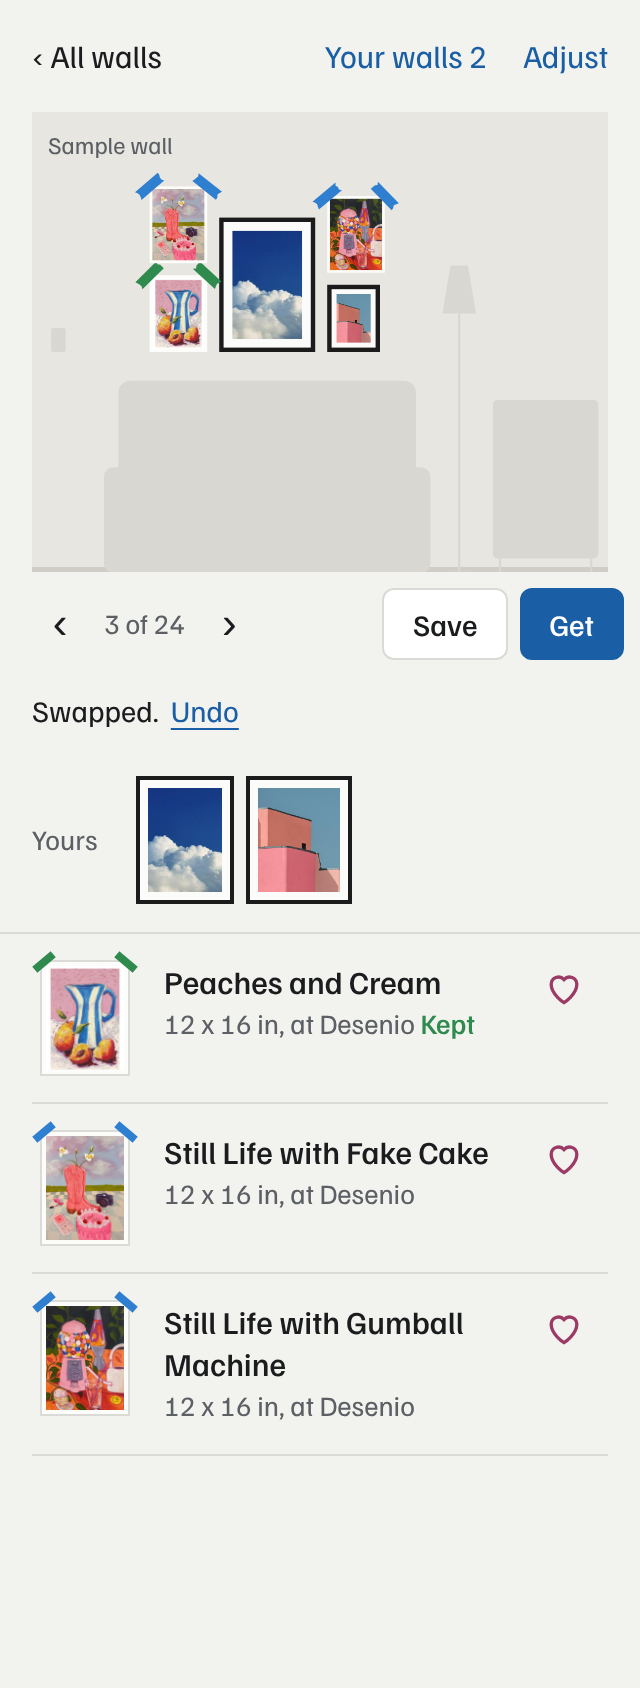
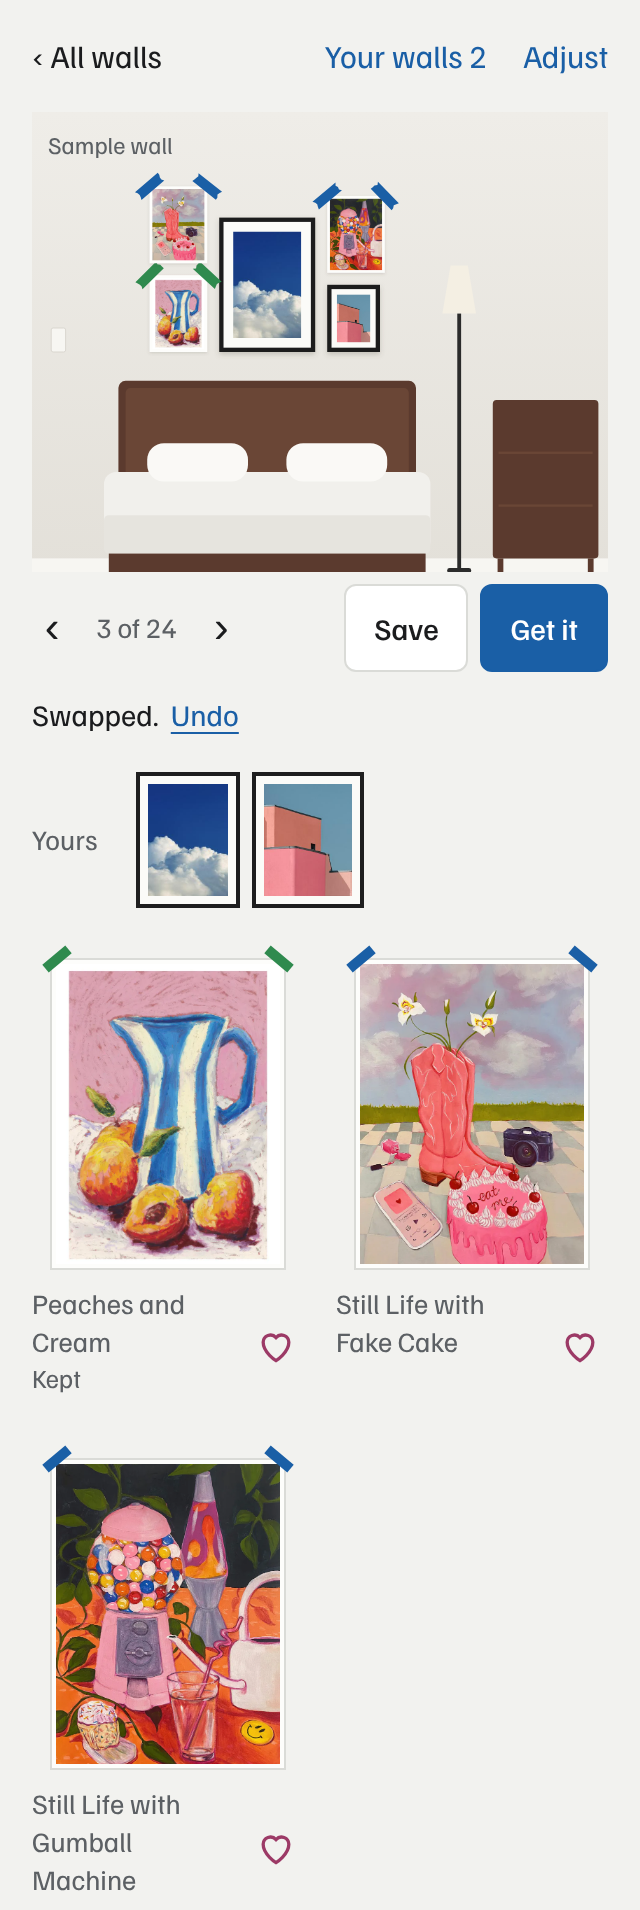
v4 step 4: taped up in the finished room; art grid over titles; fixes from the section 10 pass; references redone; FEEDBACK 75
Claude-Session: https://claude.ai/code/session_01VoA4So5M9yfUtFu9HVj1Qd

diff --git a/design/directions/build.py b/design/directions/build.py
@@ -98,20 +98,23 @@ def furniture(style):
 
 # ---------- the three drawings ----------
 def draw_tape(wall, px_per_in, seed=3):
-    """D1: new prints taped up unframed with readable corner tabs; yours framed."""
+    """1 + 3: the finished room, yours framed with a soft shadow, new prints taped up unframed."""
     rnd = random.Random(seed)
-    s = [f'<rect width="{WW}" height="{WH}" fill="var(--wall)"/>',
-         f'<rect y="{WH - 1.2}" width="{WW}" height="1.2" fill="var(--floor)"/>', furn_flat()]
+    s = ['<defs><linearGradient id="light" x1="0" y1="0" x2="0" y2="1"><stop offset="0" stop-color="var(--wall-hi)"/><stop offset="1" stop-color="var(--wall-lo)"/></linearGradient>'
+         '<filter id="sh" x="-20%" y="-20%" width="140%" height="150%"><feDropShadow dx="0" dy="0.5" stdDeviation="0.5" flood-color="#5B5245" flood-opacity="0.26"/></filter>'
+         '<filter id="shp" x="-20%" y="-20%" width="140%" height="150%"><feDropShadow dx="0" dy="0.25" stdDeviation="0.3" flood-color="#5B5245" flood-opacity="0.18"/></filter></defs>',
+         f'<rect width="{WW}" height="{WH}" fill="url(#light)"/>',
+         f'<rect y="{WH - 3}" width="{WW}" height="3" fill="var(--base)"/>', furniture('room')]
     tabT = max(1.41, 5 / px_per_in); tabL = max(3.2, 15 / px_per_in)  # the real roll's width, never under 5 px on screen
     for i, p in enumerate(wall['pieces']):
         x, y, w, h = p['x'], top(p), p['w'], p['h']
         if p['own']:
-            f = max(0.9, 2.2 / px_per_in)
-            s.append(f'<rect x="{x}" y="{y}" width="{w}" height="{h}" fill="var(--frame)"/>')
-            s.append(f'<rect x="{x + f}" y="{y + f}" width="{w - 2 * f}" height="{h - 2 * f}" fill="var(--mat)"/>')
-            s.append(image(p, f + min(w, h) * 0.09, f'c{i}'))
+            fw = 0.9
+            s.append(f'<rect x="{x}" y="{y}" width="{w}" height="{h}" fill="var(--frame)" filter="url(#sh)"/>')
+            s.append(f'<rect x="{x + fw}" y="{y + fw}" width="{w - 2 * fw}" height="{h - 2 * fw}" fill="var(--mat)"/>')
+            s.append(image(p, fw + min(w, h) * 0.1, f'c{i}'))
         else:
-            s.append(f'<rect x="{x}" y="{y}" width="{w}" height="{h}" fill="var(--paper)"/>')
+            s.append(f'<rect x="{x}" y="{y}" width="{w}" height="{h}" fill="var(--paper)" filter="url(#shp)"/>')
             s.append(image(p, min(w, h) * 0.045, f'c{i}'))
             col = 'var(--tape-keep)' if p.get('kept') else 'var(--tape-strip)'
             for cx, ang in ((x, -42 + rnd.uniform(-5, 5)), (x + w, 42 + rnd.uniform(-5, 5))):
@@ -178,8 +181,8 @@ DIRS = {
  'd1': dict(name='Taped up', fonts='https://fonts.googleapis.com/css2?family=Familjen+Grotesk:wght@400;500;600&display=swap',
     family='"Familjen Grotesk", -apple-system, sans-serif', draw=draw_tape,
     tokens='--canvas:#F2F2EF;--surface:#FFFFFF;--ink:#1B1C1E;--pencil:#5C6064;--hairline:#DADBD7;--action:#1A5FA6;--on-action:#FFFFFF;'
-           '--wall:#E7E6E1;--floor:#CFCDC6;--furn-line:#9EA2A5;--furn-fill:#D9D7D1;--frame:#1B1B1B;--mat:#FBFBF9;--paper:#FCFCFA;'
-           '--tape-strip:#2F7FD0;--tape-keep:#2F8A4E;--marker:#9C3A66;',
+           '--wall-hi:#EFEDE8;--wall-lo:#E3E0D9;--base:#F7F6F2;--wood:#5B3A2E;--wood-2:#6A4636;--linen:#F1F0EC;--linen-2:#E6E4DE;--pillow:#FAF9F6;--shade:#F4EFE3;--metal:#2B2B2B;--frame:#1E1E1E;--mat:#FBFBF8;--paper:#FDFDFB;'
+           '--tape-strip:#1A5FA6;--tape-keep:#2F8A4E;--marker:#9C3A66;',
     word='<span class="wm"><span class="tab" aria-hidden="true"></span>walldrobe</span>'),
  'd2': dict(name='Hanging plan', fonts='https://fonts.googleapis.com/css2?family=Schibsted+Grotesk:wght@400;500;600&display=swap',
     family='"Schibsted Grotesk", -apple-system, sans-serif', draw=draw_plan,
@@ -209,13 +212,13 @@ body{font-family:%(family)s;color:var(--ink);-webkit-font-smoothing:antialiased;
 .count{color:var(--pencil);font-size:14px;font-variant-numeric:tabular-nums}
 .why{font-size:20px;line-height:26px;font-weight:500;margin:6px 16px 4px;text-wrap:balance;letter-spacing:-0.005em}
 .cost{color:var(--pencil);font-size:14px;margin:0 16px;font-variant-numeric:tabular-nums}
-.feed .item{margin-bottom:28px}
+.feed .item{margin-bottom:20px}
 .feed .count{margin:12px 16px 0}
-.pager{display:flex;align-items:center;margin:4px 8px 0 8px}
+.pager{display:flex;align-items:center;margin:6px 16px 0 4px}
 .pager .nav{width:44px;height:44px;border:0;background:none;color:var(--ink);font-size:22px}
 .pager .nav[disabled]{color:var(--hairline)}
 .pager .acts{margin-left:auto;display:flex;gap:6px;align-items:center}
-.small{font:inherit;font-size:15px;font-weight:500;height:36px;margin:4px 0;padding:0 14px;border-radius:6px;border:1px solid var(--hairline);background:var(--surface);color:var(--ink)}
+.small{font:inherit;font-size:15px;font-weight:500;height:44px;margin:0;padding:0 14px;border-radius:6px;border:1px solid var(--hairline);background:var(--surface);color:var(--ink)}
 .small.primary{background:var(--action);border-color:var(--action);color:var(--on-action)}
 .undo{margin:10px 16px 0;font-size:15px;line-height:22px}
 .undo button{font:inherit;color:var(--action);background:none;border:0;padding:0 0 0 6px;text-decoration:underline;text-underline-offset:3px;position:relative}
@@ -237,9 +240,19 @@ ul.rows{list-style:none;margin:16px 0 0;padding:0 16px;border-top:1px solid var(
 """
 
 EXTRA = {
- 'd1': """.wm{position:relative;padding-left:2px}.tab{position:absolute;left:-3px;top:3px;width:15px;height:5px;background:var(--tape-strip);transform:rotate(-38deg)}
+ 'd1': """ul.tiles{list-style:none;margin:20px 16px 0;padding:0;display:grid;grid-template-columns:repeat(auto-fill,minmax(132px,1fr));gap:24px 16px}
+.tile{position:relative;display:flex;flex-direction:column;align-items:center}
+.tile .art{height:156px;display:flex;align-items:flex-end;justify-content:center;padding-top:6px}
+.tile .cap{align-self:stretch;margin-top:8px;padding-right:40px}
+.tile .name{font-size:14px;line-height:19px;color:var(--pencil);display:block;font-weight:400;overflow-wrap:anywhere}
+.tile .meta{font-size:13px;line-height:18px;color:var(--pencil);display:block;font-variant-numeric:tabular-nums}
+.tile .heart{position:absolute;right:-8px;bottom:-6px}
+.yours{margin-top:20px}
+.thumbnew{box-shadow:0 1px 2px rgba(91,82,69,.25)}
+.thumbown{box-shadow:0 0 0 2px var(--frame),0 1px 3px rgba(91,82,69,.3)}
+.wm{position:relative;padding-left:2px}.tab{position:absolute;left:-3px;top:3px;width:15px;height:5px;background:var(--tape-strip);transform:rotate(-38deg)}
 .thumbnew{position:relative;background:var(--paper);padding:2px;box-shadow:0 0 0 1px var(--hairline)}
-.thumbnew::before,.thumbnew::after{content:"";position:absolute;top:-2px;width:12px;height:4px;background:var(--tape-strip)}
+.thumbnew::before,.thumbnew::after{content:"";position:absolute;top:-3px;width:15px;height:5px;background:var(--tape-strip)}
 .thumbnew::before{left:-5px;transform:rotate(-40deg)}.thumbnew::after{right:-5px;transform:rotate(40deg)}
 .thumbnew.k::before,.thumbnew.k::after{background:var(--tape-keep)}
 .thumbown{padding:4px;background:var(--mat);box-shadow:0 0 0 2px var(--frame)}""",
@@ -255,13 +268,13 @@ EXTRA = {
 .thumbnew,.thumbown{padding:3px;background:var(--mat);box-shadow:0 0 0 1.5px var(--frame),0 1px 2px rgba(60,50,40,.25)}""",
 }
 
-def thumb(p, d):
+def thumb(p, d, size=52):
     ar = p['w'] / p['h']
-    hgt = 52 if ar < 1 else 52 / ar
+    hgt = size if ar < 1 else size / ar
     wid = hgt * ar
     cls = 'thumbown' if p['own'] else ('thumbnew k' if p.get('kept') else 'thumbnew')
     return (f'<span class="{cls}" style="display:inline-block;width:{wid:.0f}px;height:{hgt:.0f}px">'
-            f'<img src="{esc(p["img"])}" alt="" style="width:100%;height:100%;object-fit:cover;display:block"></span>')
+            f'<img src="{esc(p["img"])}" alt="{esc(p["title"])}" style="width:100%;height:100%;object-fit:cover;display:block"></span>')
 
 def svg(dkey, wall, px_per_in):
     return (f'<div class="dwrap"><svg viewBox="0 0 {WW} {WH}" role="img" aria-label="Sample wall">{DIRS[dkey]["draw"](wall, px_per_in)}</svg><span class="sample">Sample wall</span></div>')
@@ -282,8 +295,8 @@ def feed(dkey, width):
         return f'{money(sum(p["price"] for p in new))} for {len(new)} new print{"s" if len(new) > 1 else ""}'
     body = (f'<header class="bar">{DIRS[dkey]["word"]}<span class="r"><a href="#">Your walls 2</a><button>Adjust</button></span></header>'
             f'<main class="feed"><div class="item"><div class="draw">{svg(dkey, w1, ppi)}</div>'
-            f'<p class="count">1 of 24</p></div>'
-            f'<div class="item"><div class="draw">{svg(dkey, w2, ppi)}</div><p class="count">2 of 24</p></div></main>')
+            f'</div>'
+            f'<div class="item"><div class="draw">{svg(dkey, w2, ppi)}</div></div></main>')
     return page(dkey, body)
 
 def wallpage(dkey, width):
@@ -294,19 +307,18 @@ def wallpage(dkey, width):
     total = sum(p['price'] for p in new)
     reasons = {'Still Life with Fake Cake': 'Its red repeats in two other pieces.'}
     rows = ''.join(
-        f'<li class="row"><span class="t">{thumb(p, dkey)}</span><span class="txt"><span class="name">{esc(p["title"])}</span>'
-        f'<span class="meta">{inch(p["w"])} x {inch(p["h"])} in, at {esc(p["shop"])}{" <span class=kept>Kept</span>" if p.get("kept") else ""}</span>'
-        +
-        f'</span><button class="heart" aria-label="Favorite">{HEART}</button></li>' for p in new)
-    yours = ''.join(thumb(p, dkey) for p in own)
+        f'<li class="tile"><span class="art">{thumb(p, dkey, 150)}</span>'
+        f'<span class="cap"><span class="name">{esc(p["title"])}</span>{'<span class="meta">Kept</span>' if p.get("kept") else ''}</span>'
+        f'<button class="heart" aria-label="Favorite {esc(p['title'])}">{HEART}</button></li>' for p in new)
+    yours = ''.join(thumb(p, dkey, 56) for p in own)
     body = (f'<header class="bar"><a class="back" href="#">‹ All walls</a><span class="r"><a href="#">Your walls 2</a><button>Adjust</button></span></header>'
             f'<main><div class="draw">{svg(dkey, w, ppi)}</div>'
             f'<div class="pager"><button class="nav" aria-label="Wall before">‹</button><span class="count">3 of 24</span><button class="nav" aria-label="Next wall">›</button>'
-            f'<span class="acts"><button class="small">Save</button><button class="small primary">Get</button></span></div>'
+            f'<span class="acts"><button class="small">Save</button><button class="small primary">Get it</button></span></div>'
             f'<p class="undo">Swapped.<button>Undo</button></p>'
             f''
             f'<div class="yours"><span class="lab">Yours</span>{yours}</div>'
-            f'<ul class="rows">{rows}</ul></main>')
+            f'<ul class="tiles">{rows}</ul></main>')
     return page(dkey, body)
 
 if __name__ == '__main__':

diff --git a/DESIGN.md b/DESIGN.md
@@ -11,12 +11,12 @@ The wall is the hero. People are judging art, and art needs neutral surroundings
 - New prints are drawn as paper, unframed, with a thin white edge, held by torn tape tabs across the corners: two at the top, two more at the bottom on anything taller than 20 in. Blue `--tape-strip` while proposed, green `--tape-keep` once kept. Pieces of yours are framed (frame and mat), never taped.
 - Tab size: the real roll's width, 1.41 in at wall scale, never under 5 px on screen; about 3.2 in long, never under 15 px. Each tab sits at about 42 degrees with a few degrees of random lean, torn at both ends. Not wider: at 7.5 px it read as clip art (FEEDBACK 74).
 - The wordmark is "walldrobe" in lowercase Familjen Grotesk 600 with one blue tab across the top left of the w, 15 x 5 px, the same proportion as on the wall.
-- Furniture is flat silhouettes one step darker than the wall, no outlines, no pillows or seams worth looking at. The art carries the color.
-- Type: Familjen Grotesk 400, 500, 600 (replaces Switzer). Action color `#1A5FA6`.
-- Words: no why line, no reason line on rows, no move note on the wall screen. A wall is judged by looking at it (FEEDBACK 74). The count ("1 of 24") stays small under each drawing. The Undo line is "Swapped. Undo", "Kept. Undo", "Removed. Undo". Rows are the title, then size and shop, then "Kept" when kept.
-- Save and Get are two small buttons in the pager row, Save quiet and Get filled, 36 px tall inside a 44 px row.
-- Rows sit on the page with hairlines between them, no card.
-- Thumbnails repeat the drawing's code: new pieces as taped paper, yours framed.
+- Mixed with Finished wall (FEEDBACK 75): the room in its own colors (wall lit a touch lighter at the top, wood bed and dresser, linen bedding, a black floor lamp), pieces of yours in black frames with mats and one soft shadow, new prints as paper with a fainter shadow under their tape.
+- Type: Familjen Grotesk 400, 500, 600 (replaces Switzer). One blue, `#1A5FA6`, for actions and for blue tape alike; green `#2F8A4E` only for kept tape and the word Kept; plum `#9C3A66` only for the favorite heart.
+- Words: no why line, no reason line, no move note, no count under walls in the list (the open wall's pager keeps "3 of 24"). A wall is judged by looking at it (FEEDBACK 74, 75). The Undo line is "Swapped. Undo", "Kept. Undo", "Removed. Undo".
+- New pieces on the open wall are a two-across grid of the art itself, about 150 px tall, taped like the drawing; under each, the title in `--pencil` at 14 px and "Kept" when kept, and a heart. No size or shop line; those are in the piece sheet with the credit ("Art by Lindsey Cherek, sold by Desenio"). Images carry the title as alt text and the heart says which piece it saves.
+- Save and "Get it" sit at the right of the pager row, Save quiet and Get it filled, 44 px tall, inside the 16 px gutter.
+- Thumbnails repeat the drawing's code: new pieces as taped paper, yours framed. No cards anywhere.
 - No legend (FEEDBACK 70). No prices for now (FEEDBACK 72).
 
 ## The direction and its source

diff --git a/FEEDBACK.md b/FEEDBACK.md
@@ -102,3 +102,4 @@ Status: Live (on the real link), v3 (on branch v3, not live), To do, Reversed (a
 | 72 | "Lets hide the prices for now because i'm going to change that... its gonna be cheaper in the end." | Prices hidden in v4: no cost line under the why line, no price on piece rows. The buy link still opens the shop. Conflicts with PRODUCT.md "Facts that change the decision" (what the new pieces cost), noted there as hidden for now. | Jason | Pricing will change and come down. | Decided |
 | 73 | "Conceptually i like it but it's still giving ai slop not unique creative brand design. It does need to be somewhat vanilla but still." | Three visual directions mocked on the real bedroom walls with real art (design/directions): Taped up, Hanging plan, Finished wall. Each has one owned signature at a size that reads on a phone; everything else stays plain. In all three: real images for your pieces, plain furniture, rows without a card, one signal per state, no filler reasons. | Jason; Claude | One owned element, plain everywhere else. | Decided: Taped up (row 74) |
 | 74 | "I think its good... i like the sideways tape especially on the logo that's really good... make sure its the right width not too wide... the words are kind of overkill... im picking based on the view not anything you say... waste of space." | Taped up picked. Tabs set to the real roll's width (1.41 in, at least 5 px; were 7.5 px) and about 3.2 in long; the wordmark tab to match (15 x 5 px). Why lines, reason lines and the nail note removed from the screens; Undo shortened to "Swapped. Undo". References in design/references/v4-* redone. Reverses the why line from row 2. | Jason | Walls are judged by eye; text under them took space and added nothing he uses. | Decided; references waiting on OK |
+| 75 | "A mixture of option 1 and 3 is good... you haven't fully reviewed the anti-slop website stuff... 'both of yours, one new, lined up... width across', that's dumb, who cares? you get that info visually... the name of the painting is way less important than the image itself... we're getting really close." | Mixed 1 and 3: the room in its colors, yours framed, new prints taped. New pieces as a grid of the art with quiet titles; sizes and shop to the sheet; no count in the list. A fresh reviewer checked every row of the section 10 tells catalog; fixed the 36 px buttons and gutter, alt text and heart names, two blues into one, repeated sizes. References redone. | Jason; Claude (the catalog pass) | Look first, words only where they do a job. | Decided; references waiting on OK |

diff --git a/DECISIONS.md b/DECISIONS.md
@@ -174,6 +174,7 @@ One line per call: date, decision, and why. Newest at the bottom. Change a decis
 - 2026-10-02: Prices hidden in v4: no cost line, no price on rows or sheets; the shop link stays. Jason: "lets hide the prices for now because i'm going to change that... its gonna be cheaper in the end." Reopen when: the new pricing is set.
 - 2026-10-02 (v4 step 4): Direction "Taped up", from three mocked on the real bedroom walls (Taped up, Hanging plan, Finished wall). New prints unframed with torn tape tabs at true width (1.41 in, at least 5 px on screen), yours framed; the same tab on the wordmark; flat furniture; Familjen Grotesk. Jason: "i like the sideways tape especially on the logo... make sure its the right width not too wide." Rejected: Hanging plan (reads as a tool), Finished wall (no way to see what is new on the drawing, closest to a generic interiors look). Reopen if: tabs read as clip art on a real phone.
 - 2026-10-02 (v4 step 4): No why line under the walls, no reason lines on rows, no move note on the wall screen; walls are chosen by looking. Jason: "the words are kind of overkill... im picking based on the view not anything you say... waste of space." This reverses the why line from the v2 reset (FEEDBACK 2, "ranked best to worst and why") and DESIGN.md's rule that it is the biggest text. The reasons stay in the engine for ranking. Reopen if: people can't tell two walls apart or ask why one ranks first.
+- 2026-10-02 (v4 step 4): Taped up mixed with Finished wall: the room in its own colors and your pieces framed with a soft shadow, new prints taped up unframed. New pieces on the open wall as a grid of the art, title small and quiet, size and shop moved to the sheet; no count under walls in the list; one blue for actions and tape; Save and Get it at 44 px. Jason: "a mixture of option 1 and 3... the name of the painting is way less important than the image itself." Checked against every row of the playbook's section 10 by a reviewer that did not build it; fixed: 36 px buttons, the gutter, empty alt text, unnamed hearts, two near-match blues, repeated sizes, the count. Left open: the room is still drawn in code (needed for true scale; revisit with a photo of your own wall), the plum heart as a second accent (it is the favorite mark), shop images need their credit in the piece sheet.
 
 
 ## Design
